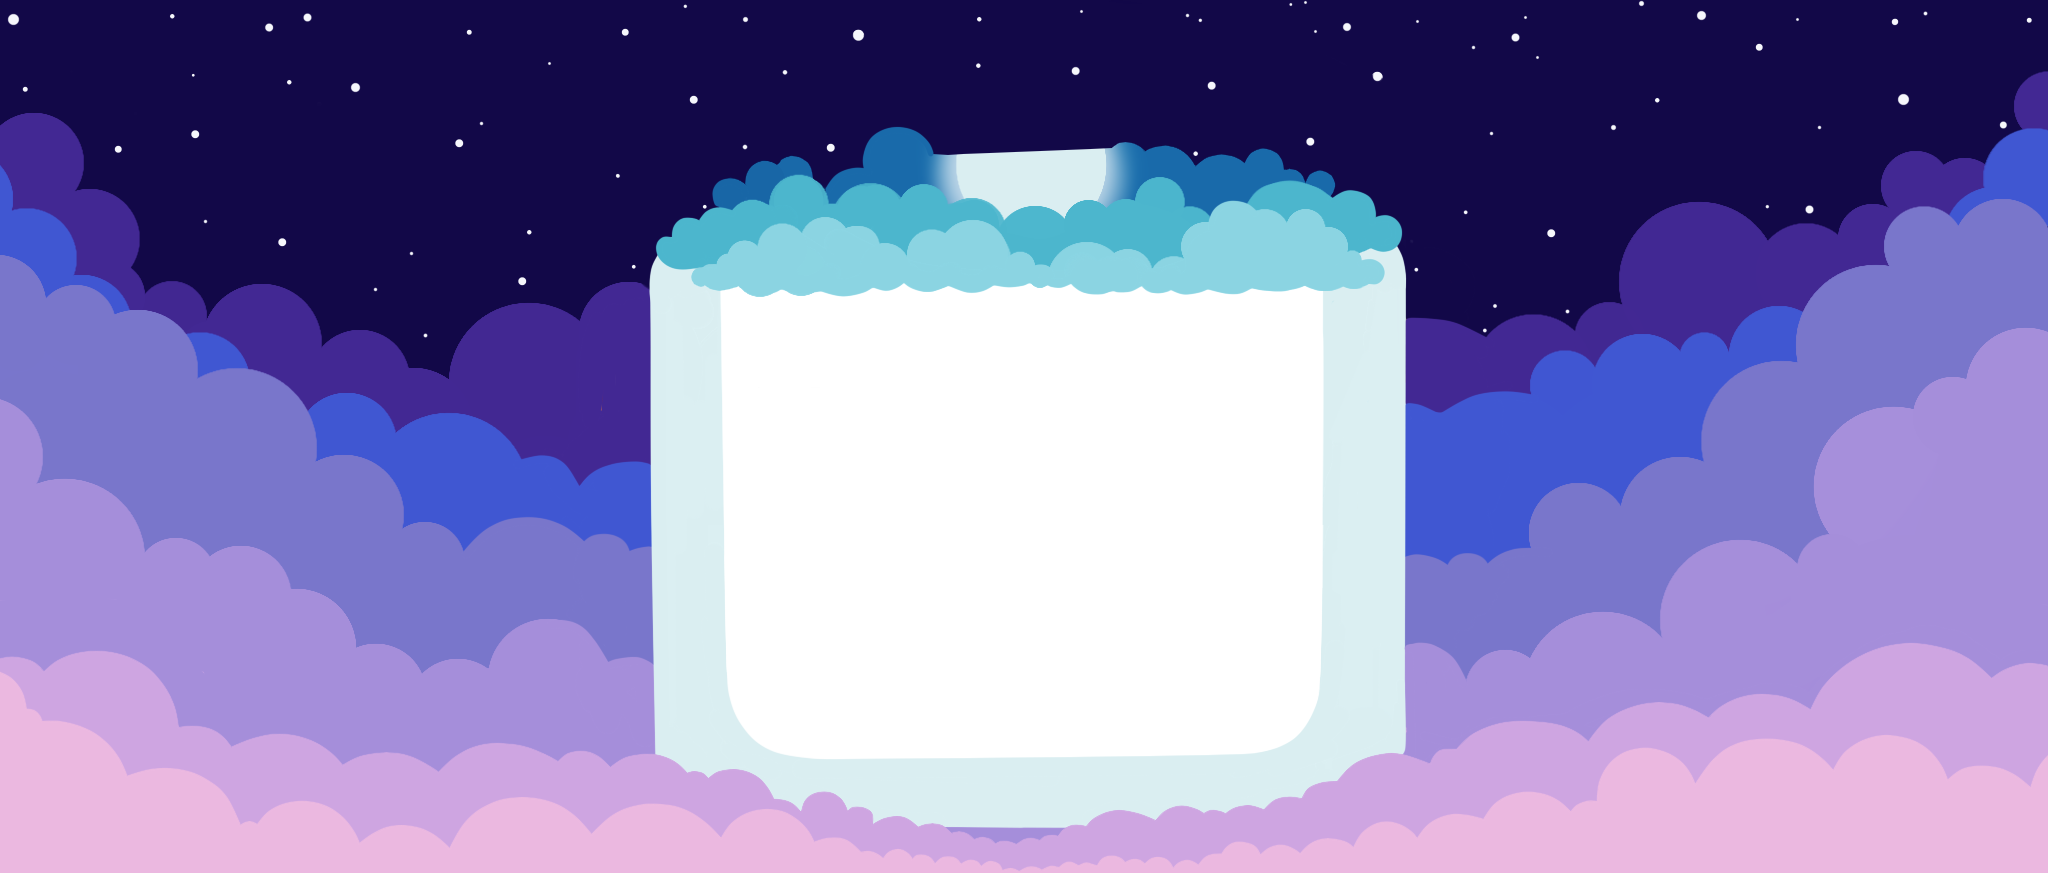
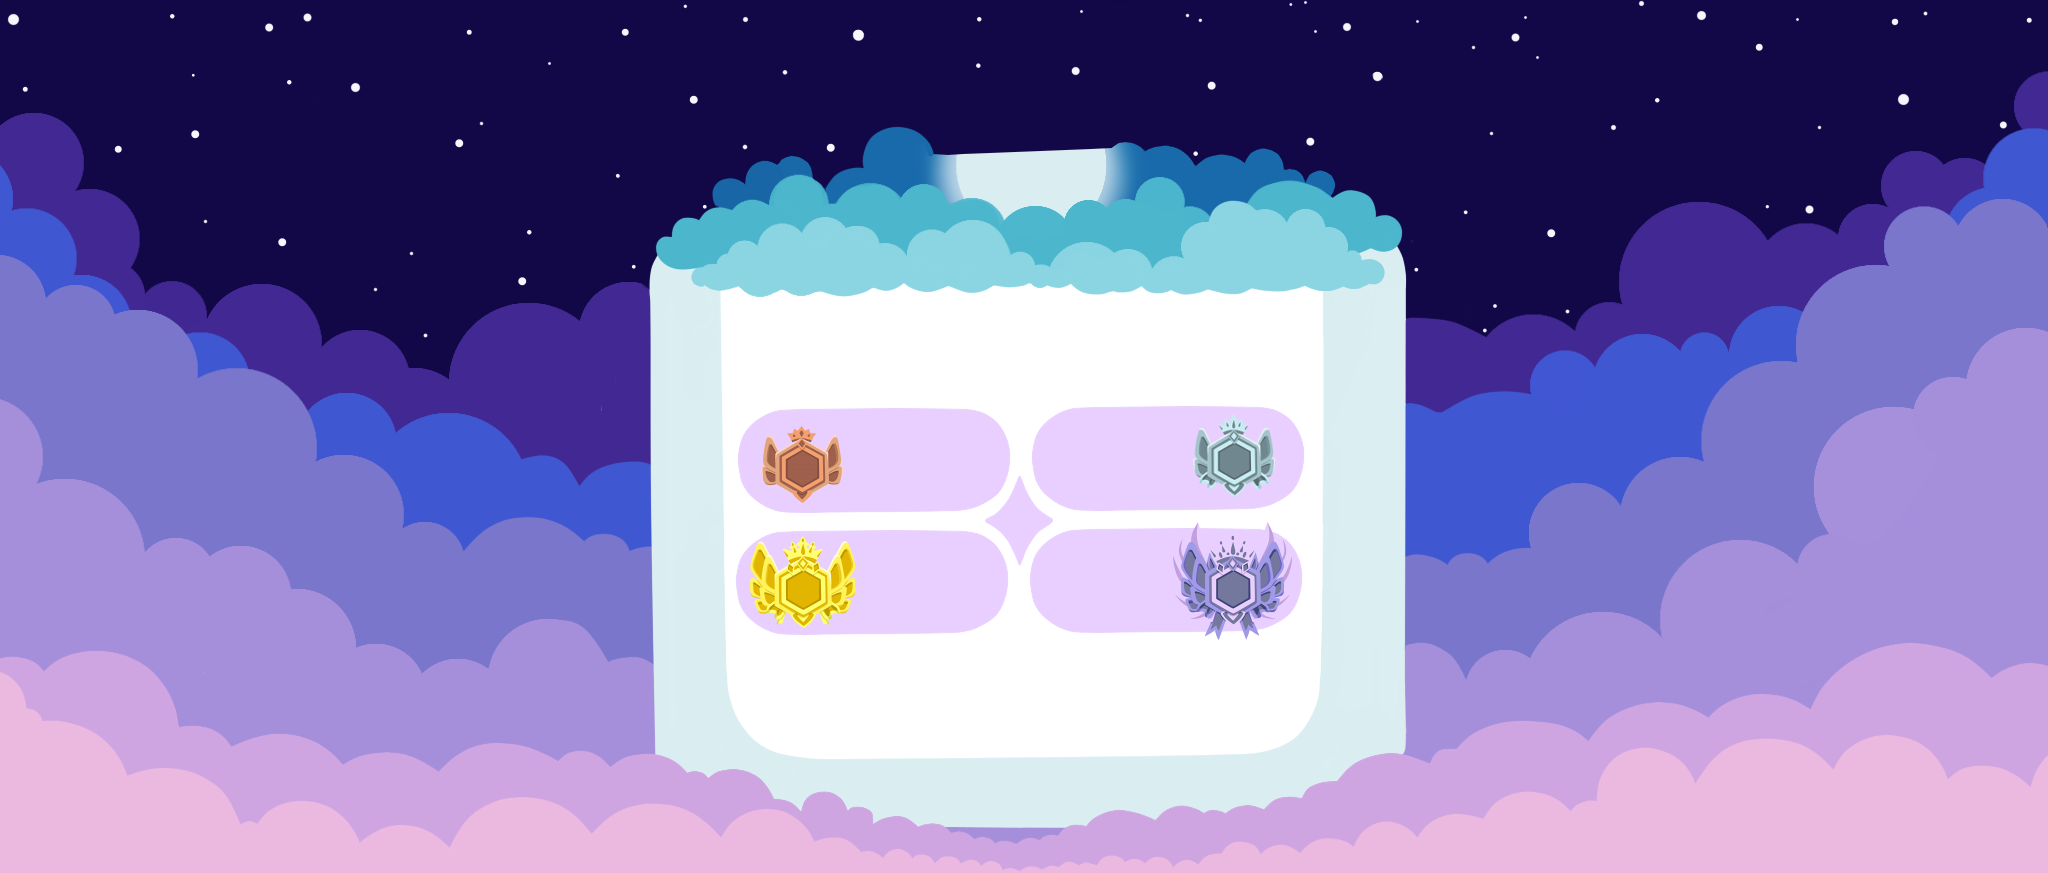
Popravak floatinga elemenata na Profilu

Changed region(s): [[0.3438, 0.4639, 0.6562, 0.7423]]

diff --git a/MathTVZApp/CSS/Profil.css b/MathTVZApp/CSS/Profil.css
@@ -2,11 +2,14 @@
     margin: 0;
     padding: 0;
 }
-#omotacBodyProfil {
+#omotacProfil {
     position: absolute;
+    overflow: hidden;
 }
 .imgMedalja {
     position: absolute;
+    z-index: 2;
+    overflow:hidden;
     height: 300px;
     width: 300px;
     margin-top: -680px;
@@ -14,6 +17,7 @@
 }
 #pMojiBodovi {
     position: absolute;
+    overflow: hidden;
     font-family: 'Trebuchet MS', 'Lucida Sans Unicode', 'Lucida Grande', 'Lucida Sans', Arial, sans-serif;
     font-weight: bold;
     font-size: 300%;
@@ -21,17 +25,66 @@
     margin-top: -410px;
     margin-bottom: 500px;
     margin-left: 570px;
-    /*color: rgb(235, 184, 224);*/
     color: rgb(165, 142, 218);
+}
+#pBodoviZaBroncu {
+    position: absolute;
+    overflow: hidden;
+    font-family: 'Trebuchet MS', 'Lucida Sans Unicode', 'Lucida Grande', 'Lucida Sans', Arial, sans-serif;
+    font-weight: bold;
+    font-size: 150%;
+    width: 300px;
+    margin-top: -327px;
+    margin-left: 640px;
+    color: rgb(121, 118, 203);
+}
+#pBodoviZaSrebro {
+    position: absolute;
+    overflow: hidden;
+    font-family: 'Trebuchet MS', 'Lucida Sans Unicode', 'Lucida Grande', 'Lucida Sans', Arial, sans-serif;
+    font-weight: bold;
+    font-size: 150%;
+    width: 300px;
+    margin-top: -327px;
+    margin-left: 798px;
+    color: rgb(121, 118, 203);
+}
+#pBodoviZaZlato {
+    position: absolute;
+    overflow: hidden;
+    font-family: 'Trebuchet MS', 'Lucida Sans Unicode', 'Lucida Grande', 'Lucida Sans', Arial, sans-serif;
+    font-weight: bold;
+    font-size: 140%;
+    width: 300px;
+    margin-top: -237px;
+    margin-left: 640px;
+    color: rgb(121, 118, 203);
+}
+#pBodoviZaDiamond {
+    position: absolute;
+    overflow: hidden;
+    font-family: 'Trebuchet MS', 'Lucida Sans Unicode', 'Lucida Grande', 'Lucida Sans', Arial, sans-serif;
+    font-weight: bold;
+    font-size: 150%;
+    width: 300px;
+    margin-top: -237px;
+    margin-left: 798px;
+    color: rgb(121, 118, 203);
+}
+#footerProfil {
+    position: absolute;
+    overflow: hidden;
+    bottom: 0;
+    margin-top: -40px;
 }
 .btnOdjava {
     padding: 0;
-    display: block;
+    overflow: hidden;
     width: 160px;
     height: 50px;
     position: absolute;
     margin-top: -160px;
-    margin-left: 695px;
+    margin-left: 685px;
     border-radius: 20px;
     border: none;
     background-color: rgb(236, 113, 129);

diff --git a/MathTVZApp/Ekrani/Profil.aspx.designer.cs b/MathTVZApp/Ekrani/Profil.aspx.designer.cs
@@ -101,14 +101,5 @@ namespace MathTVZApp.Ekrani {
         /// To modify move field declaration from designer file to code-behind file.
         /// </remarks>
         protected global::System.Web.UI.HtmlControls.HtmlImage imgGold;
-        
-        /// <summary>
-        /// lblBrojBodova control.
-        /// </summary>
-        /// <remarks>
-        /// Auto-generated field.
-        /// To modify move field declaration from designer file to code-behind file.
-        /// </remarks>
-        protected global::System.Web.UI.WebControls.Label lblBrojBodova;
     }
 }

diff --git a/MathTVZApp/Ekrani/Profil.aspx.cs b/MathTVZApp/Ekrani/Profil.aspx.cs
@@ -22,6 +22,12 @@ namespace MathTVZApp.Ekrani
             }
         }
 
+        //Eventi:
+        protected void btnOdjava_Click(object sender, EventArgs e)
+        {
+            //odjavi me
+        }
+
         private bool isKorisnikUlogiran()
         {
             var OK = true;
